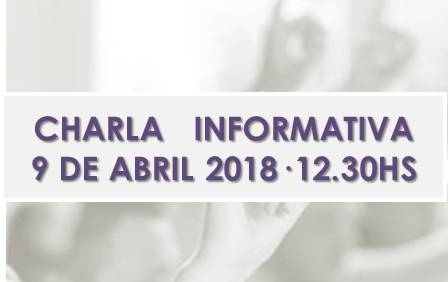
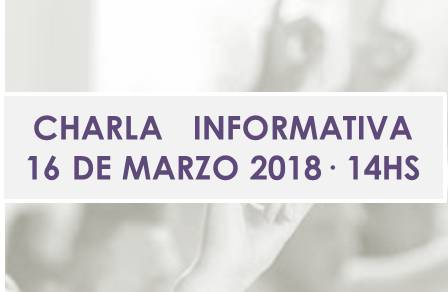
Se cambia la imagen de charla informativa item3home2.jpg y se sacan los logs cuando se envian emails

diff --git a/files/modules/web/formulario_preinscripcion.php b/files/modules/web/formulario_preinscripcion.php
@@ -19,7 +19,7 @@
     $Msg .= 'Tel&eacute;fono: <b>'.$Phone.'</b><br>';
     $Msg .= 'Email: <b><a href="'.$Email.'">'.$Email.'</a></b><br>';
     $Msg .= 'Ocupaci&oacute;n: <b>'.$Occupation.'</b><br>';
-    $Msg .= '<br>Mensaje: <br><b>'.$_POST['msg'].'</b>';
+    $Msg .= '<br>Mensaje: <br><b>'.htmlentities($_POST['msg']).'</b>';
     $Msg .= '<br><br><br><b>Este email ha sido generado autom&aacute;ticamente desde el sitio web de la AMHA.</b>';
 
     $Headers .= "MIME-Version: 1.0\r\n";
@@ -37,9 +37,9 @@
 
     //send email
     if(!mail($AdminEmail, $Subject, $Msg, $Headers))
-      echo "X";
+      // echo "X";
     if(!mail($AdminEmail2, $Subject, $Msg, $Headers))
-      echo "XX";
+      // echo "XX";
     include("../../classes/class.database.php");
     $DB = new DataBase();
     $DB->Connect();
